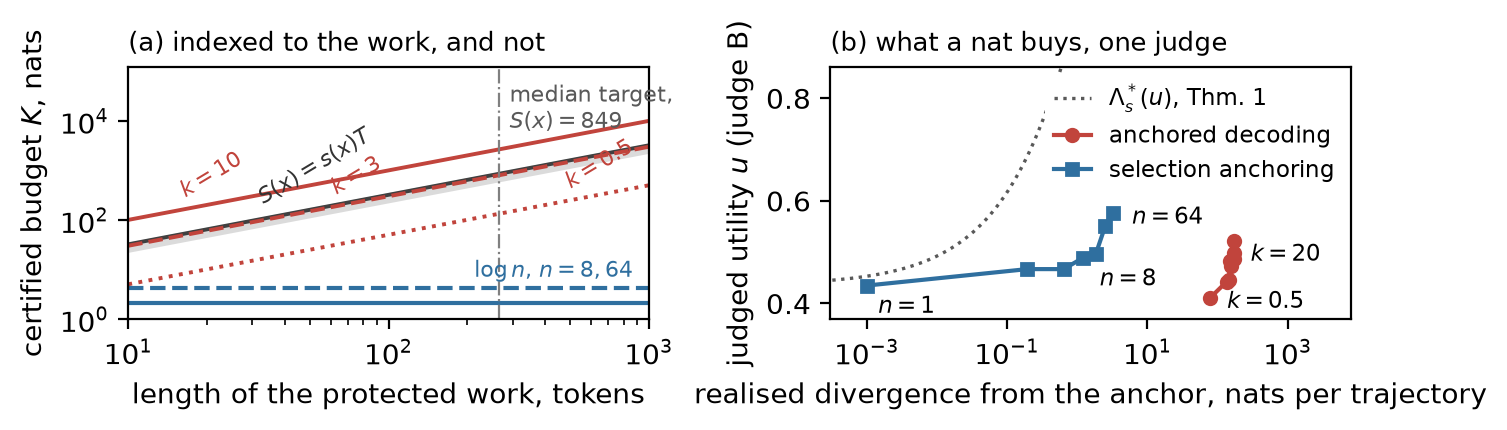
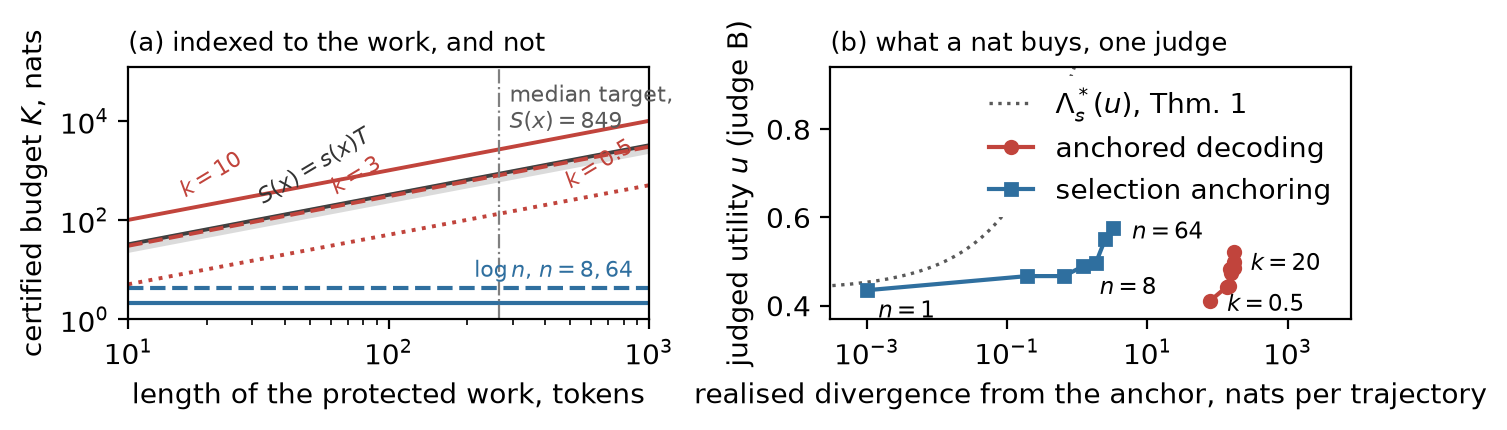
read-through 3: Figure 1's legend was printing at 5.4pt, and caution (af) sanctioned it on reasoning that does not hold
12. selection_frontier.pdf pre-scales its type by F = 6.9/5.5 -- which is exactly
    the compensation for printing at \textwidth -- and experiments.tex places it
    at 0.70\textwidth. The prescale under-compensates by that same 0.70, so the
    legend of the paper's ONLY main-text figure printed at about 5.4pt.

    Caution (af) named this figure as the one 6.9in canvas allowed to go narrow
    "because it pre-scales its type", which is true only at \textwidth. The
    generator's own comment says so: "Printed at \textwidth: pre-scale the type
    by the shrink it will take."

    MEASURED, not computed. The mediabox arithmetic said 4.2pt and was wrong --
    the mediabox carries padding that is not content. The number that holds up is
    from the compiled page: pdftotext -bbox, advance width per character against
    the SAME words in body text on the same page. Legend 5.4pt, panel titles
    6.5pt. Glyph bbox HEIGHT is not a usable proxy -- it moves with which
    ascenders and descenders a word happens to have.

    Fixed at the legend only, since raising F globally is what broke the layout
    before (the generator records that attempt): 6.6 -> 8.0, now 6.5pt measured
    the same way. Widening the figure to \textwidth was the other option and
    costs about five body lines the paper does not have.

    And it reproduced caution (ad) exactly: the taller legend box covered the
    n=64 label -- the paper's headline point -- the same collision the code had
[…]

diff --git a/figures/make_figures_v4.py b/figures/make_figures_v4.py
@@ -415,7 +415,10 @@ def selection_frontier():
     # Headroom for the legend, which now sits upper right: at ylim 0.80 its bottom border cut
     # through the "n=64" label (u=0.578). Every legend move in this panel trades one collision
     # for another unless the panel is given the room -- render the page after touching either.
-    ax.set_ylim(0.37, 0.86)
+    # 0.94, not 0.86: raising the legend to a readable 8.0 (below) made the box taller and it
+    # covered the n=64 label again -- the SAME collision, from changing the size instead of the
+    # corner. The legend size and this number move together.
+    ax.set_ylim(0.37, 0.94)
     ax.set_xlabel("realised divergence from the anchor, nats per trajectory")
     ax.set_ylabel("judged utility $u$ (judge B)")
     ax.set_title("(b) what a nat buys, one judge", fontsize=7.6 * F, loc="left")
@@ -426,7 +429,12 @@ def selection_frontier():
     # that corner and struck through "Thm. 1" and "selection anchoring" in the compiled PDF
     # (caution (ad)). Upper right is empty -- the curve exits the top by x~0.5 and the anchored
     # cluster tops out at u=0.52 -- and the opaque frame occludes anything that ever reaches it.
-    ax.legend(fontsize=6.6 * F, frameon=True, framealpha=1.0, edgecolor="none",
+    # 8.0, not 6.6: measured on the compiled page (pdftotext -bbox, advance width against the
+    # same words in body text) this legend printed at about 5.4pt, because the figure is placed
+    # at 0.70\textwidth while F compensates only for \textwidth. Raising F globally is what
+    # broke the layout before, so only the legend moves -- the annotations and ticks that decide
+    # the layout are untouched. RENDER THE PAGE after changing this.
+    ax.legend(fontsize=8.0 * F, frameon=True, framealpha=1.0, edgecolor="none",
               loc="upper right", handlelength=1.6, borderaxespad=0.3)
     for _a in (axL, ax):
         _a.tick_params(labelsize=8 * F)
